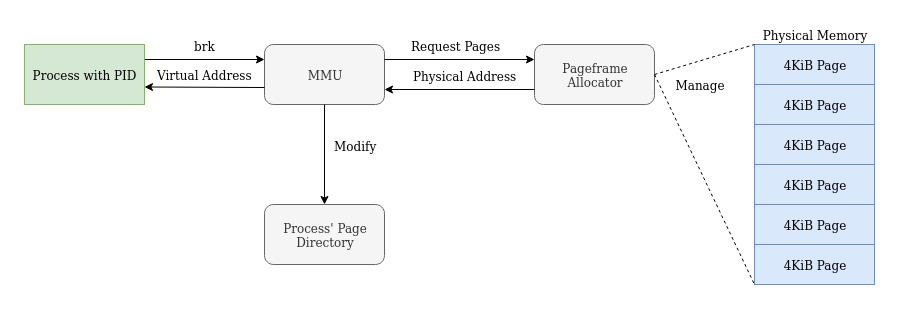
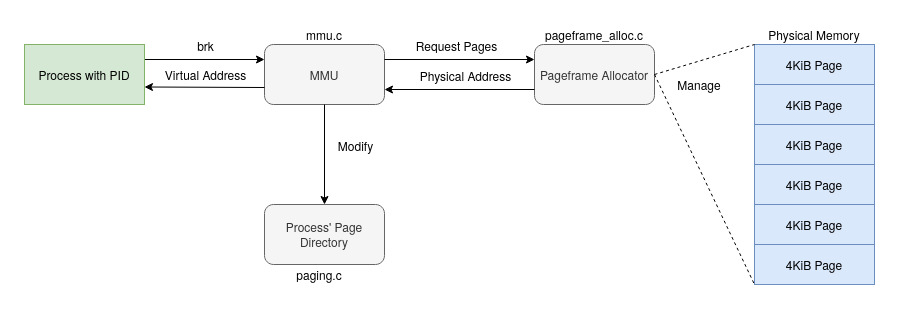
rename malloc to mmu, wrap all paging init to mmu_init, update doc

diff --git a/kernel/mmu/paging.c b/kernel/mmu/paging.c
@@ -16,7 +16,7 @@ static unsigned int virtual_addr_to_pde(unsigned int virtual_addr) {
 }
 
 // Map 1 page table (4MiB) from virtual address to phys_addr.
-static void paging_map(unsigned int virtual_addr, unsigned int phys_addr, unsigned int *page_dir, unsigned int *page_table) {
+void paging_map(unsigned int virtual_addr, unsigned int phys_addr, unsigned int *page_dir, unsigned int *page_table) {
 	// Populate the page table. Fill each entry with corresponding physical address (increased by 0x1000 bytes each entry).
     for (unsigned int i = 0; i < 1024; i++) {
 		// We can fit all addreses of 4GB physical memory into a PTE.

diff --git a/kernel/kmain.c b/kernel/kmain.c
@@ -8,7 +8,7 @@
 #include "multiboot.h"
 #include "kinfo.h"
 #include "kheap.h"
-#include "malloc.h"
+#include "mmu.h"
 #include "utils/debug.h"
 #include "utils/string.h"
 #include "stdtype.h"
@@ -61,14 +61,12 @@ void kmain(unsigned int ebx) {
 
 // Setup paging
     write_cstr("Setting up paging..", 80);
-    paging_init();
+    mmu_init();
 
 // Setup interrupts
     write_cstr("Setting up interrupts..", 0);
     interrupt_init_idt();
     pic_init();
-
-    malloc_init();
 
 // Perform memory tests
     test_memory_32bit_mode();

diff --git a/include/paging.h b/include/paging.h
@@ -1,4 +1,5 @@
 #ifndef INCLUDE_PAGING_H
 #define INCLUDE_PAGING_H
 void paging_init();
+void paging_map(unsigned int virtual_addr, unsigned int phys_addr, unsigned int *page_dir, unsigned int *page_table);
 #endif

diff --git a/kernel/mmu/mmu.c b/kernel/mmu/mmu.c
@@ -1,6 +1,8 @@
 #include "pageframe_alloc.h"
+#include "paging.h"
 #include "stdtype.h"
 
-void malloc_init() {
+void mmu_init() {
+    paging_init();
     pageframe_alloc_init();
 }

diff --git a/include/mmu.h b/include/mmu.h
@@ -1,4 +1,4 @@
 #ifndef INCLUDE_MALLOC_H
 #define INCLUDE_MALLOC_H
-void malloc_init();
+void mmu_init();
 #endif
